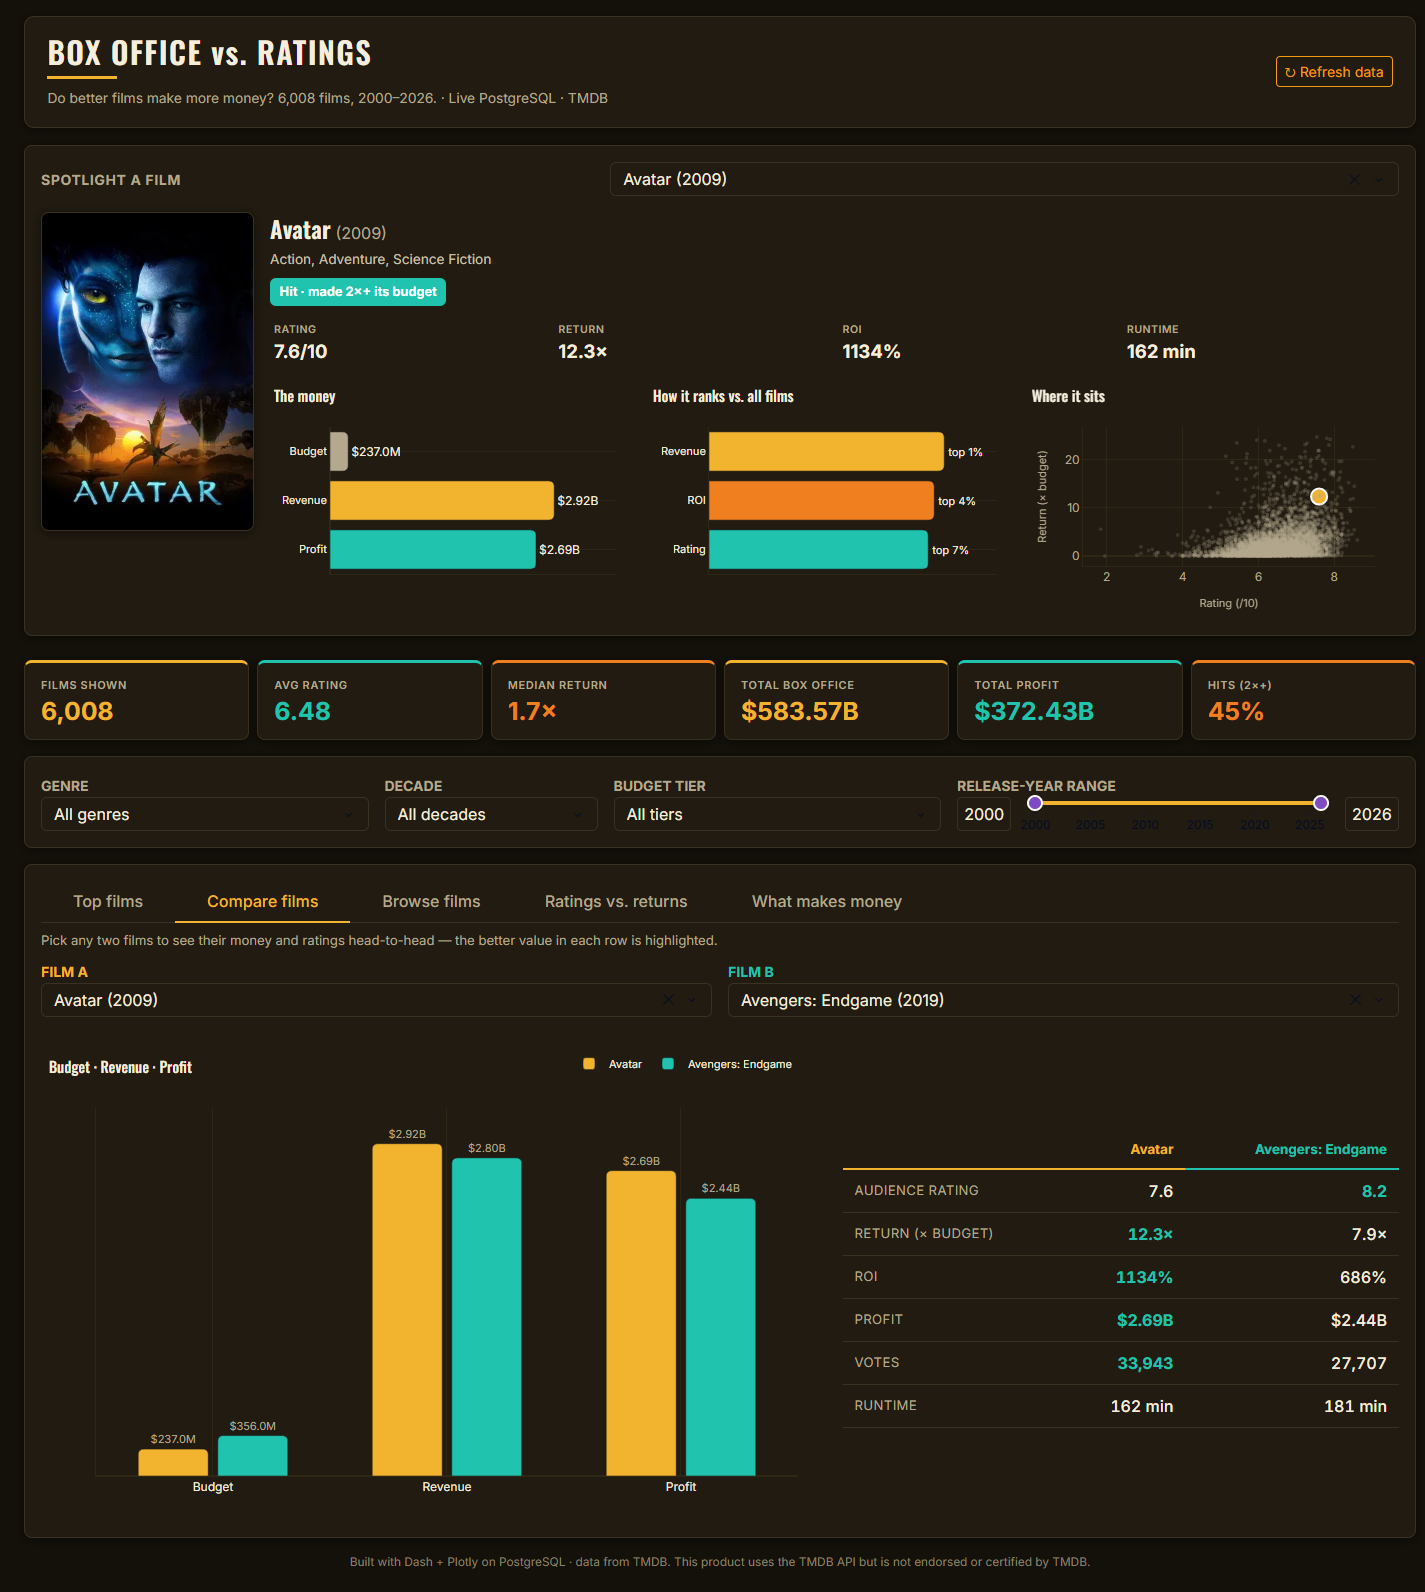
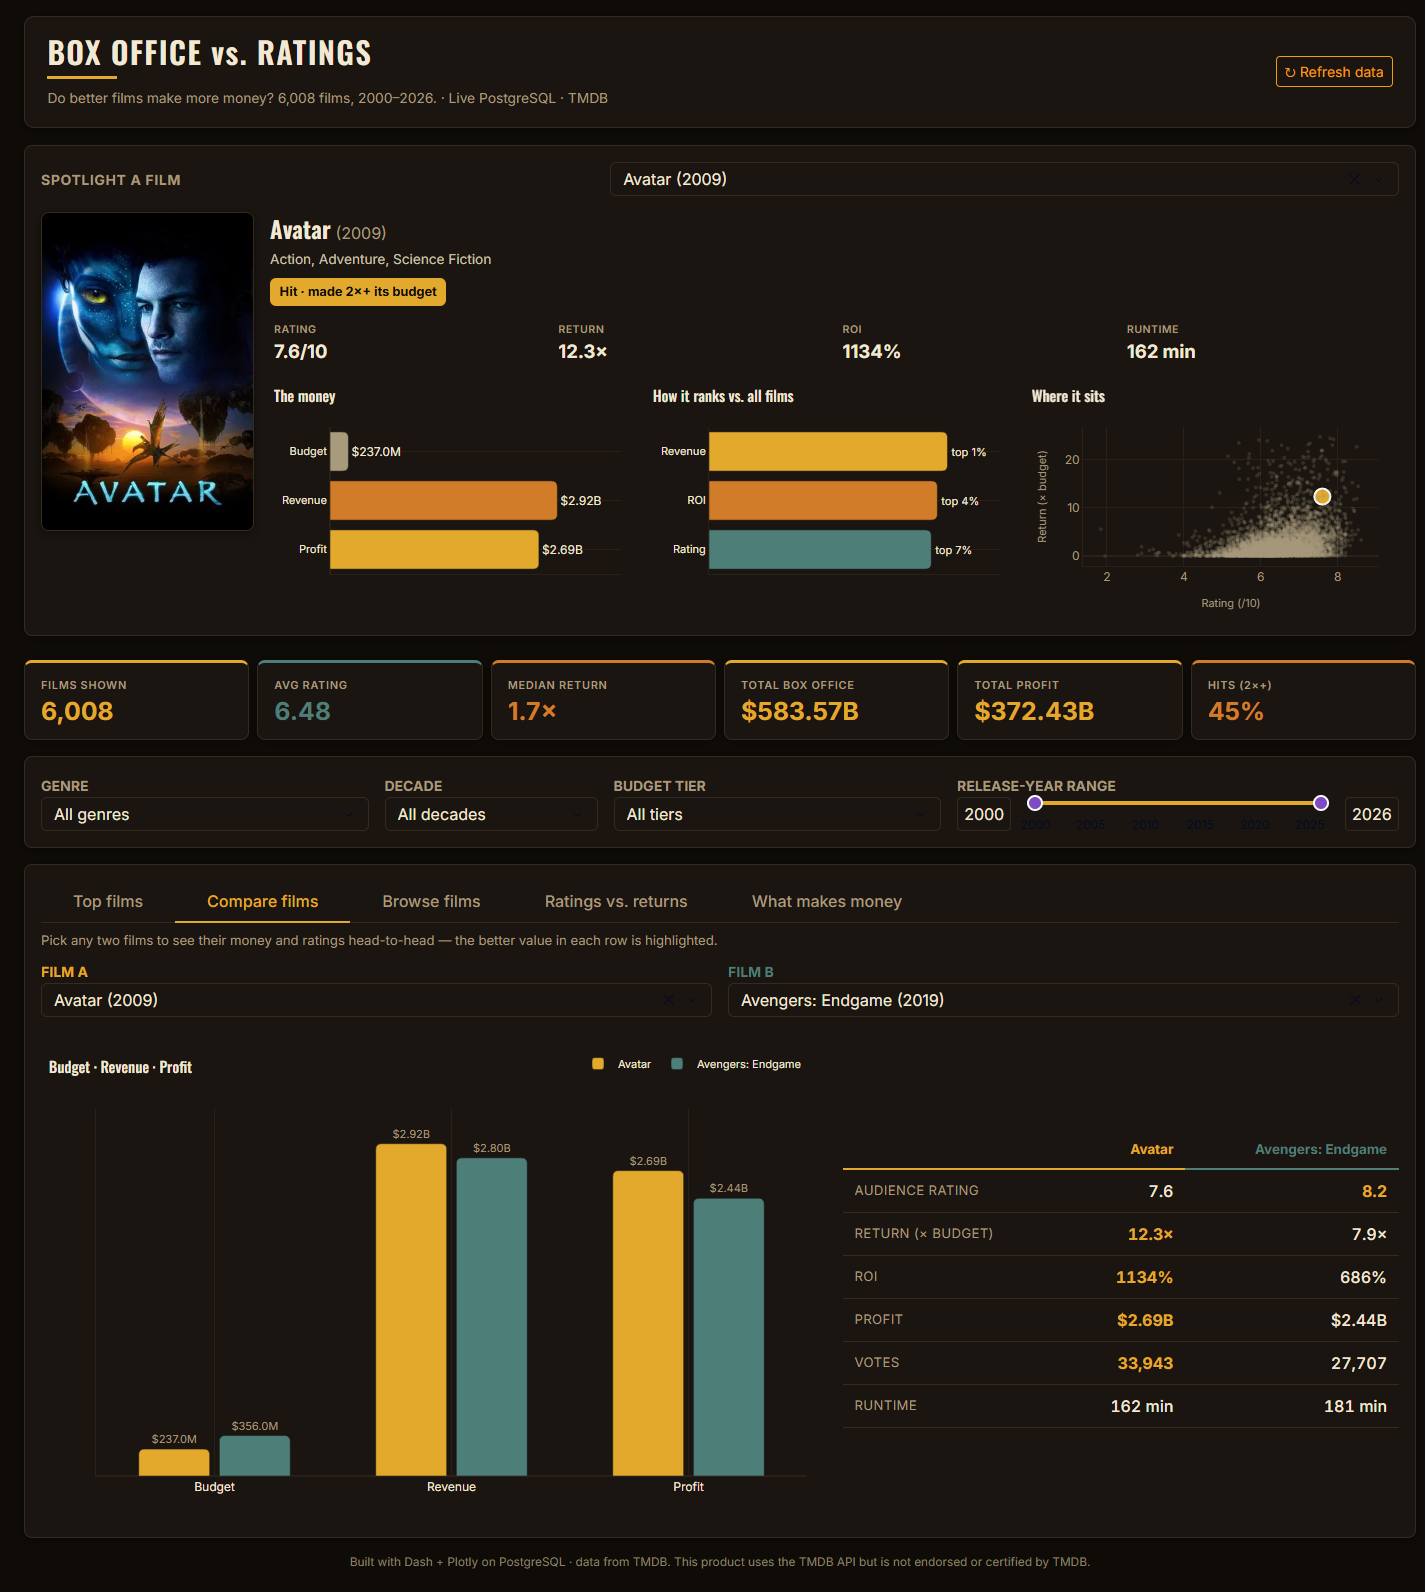
Rich "theater" palette (gold + crimson on near-black), demote teal; punchier titles
Spencer: the colours still don't fit the theme. Root cause: I'd made them bright
(neon-ish), but cinema isn't bright — it's rich and deep. The teal also read as
"tech dashboard," not "movie."

- Rebuilt the palette around a true theater identity: near-black warm canvas,
  rich antique gold, curtain crimson, deep amber, parchment text — saturated but
  deep, not neon. Gold + crimson is the Oscars/marquee look.
- Demoted teal from a primary "good" colour to a single deep, muted petrol accent
  (one chart + compare B). "Good/hit/winner/profit" is now gold; "profitable" amber;
  "flop/loss" crimson — a warm red→amber→gold gradient throughout.
- Synced the index_string CSS to the new palette.
- Scan/viewer-value: renamed leaderboards to be more engaging — "Most profitable",
  "Best bang for the buck", "Biggest flops".
- Regenerated the four README screenshots on the theater palette.

Self-review: clean; verified import + update()/fig_money build + all tabs render.

diff --git a/app.py b/app.py
@@ -38,17 +38,17 @@ load_dotenv()
 
 # ---- "movie theater" palette: warm espresso canvas + the classic teal-and-orange
 # film-grading scheme (cinema gold/amber warm, teal as the complementary cool) ----
-BG = "#14110A"          # warm espresso-charcoal (a dim theater)
-PANEL = "#211B11"       # warm dark — cards / chart panels
-PANEL_HI = "#2D2616"    # table header, hover, raised bits
-BORDER = "#3A3122"      # subtle warm border
-INK = "#F5EEDD"         # warm cream (primary text)
-MUTED = "#B4A98E"       # warm grey text
-GRID = "#2E2718"        # chart gridlines
-GOLD = "#F2B32E"        # vivid marquee gold — primary (box office, hits)
-ORANGE = "#F0801F"      # vivid amber-orange — secondary (returns, ROI)
-TEAL = "#1FC3AE"        # vivid teal — the cool of teal-and-orange grading
-RED = "#EA4A39"         # vivid crimson — losses / flops
+BG = "#0F0C08"          # near-black warm — a dark theater
+PANEL = "#1A1510"       # rich dark — cards / chart panels
+PANEL_HI = "#241D14"    # table header, hover, raised bits
+BORDER = "#352A1D"      # subtle warm border
+INK = "#F2E8D4"         # parchment / cream (primary text)
+MUTED = "#A89A7C"       # warm grey text
+GRID = "#292117"        # chart gridlines
+GOLD = "#E2A92C"        # rich antique gold — primary (box office, hits, winners)
+ORANGE = "#D17C28"      # deep amber — secondary (returns, ROI, profitable)
+RED = "#B8362C"         # curtain crimson — losses / flops
+TEAL = "#4E7E78"        # deep muted petrol — a single restrained cool accent
 ACCENT = GOLD
 PAGE_BG = BG
 SHADOW = "0 2px 10px rgba(0,0,0,0.50)"
@@ -58,7 +58,7 @@ PALETTE = [GOLD, TEAL, ORANGE, RED, "#C9A36A", "#7FA59E"]
 
 TIER_ORDER = ["Low (<$10M)", "Mid ($10-50M)", "High ($50-150M)", "Blockbuster (>=$150M)"]
 PERF_ORDER = ["Flop (<1x)", "Profitable (1-2x)", "Hit (>=2x)"]
-PERF_COLORS = {"Flop (<1x)": RED, "Profitable (1-2x)": GOLD, "Hit (>=2x)": TEAL}
+PERF_COLORS = {"Flop (<1x)": RED, "Profitable (1-2x)": ORANGE, "Hit (>=2x)": GOLD}
 # Plain-English badge text — the raw "Hit (>=2x)" labels are jargon to a demo audience.
 PERF_BADGE = {"Flop (<1x)": "Flop · lost money",
               "Profitable (1-2x)": "Profitable · made 1–2× its budget",
@@ -241,7 +241,7 @@ def fig_rating_band(df):
     b = (d.groupby("band", observed=True)
            .agg(roi=("roi_pct", "median"), n=("film_id", "count")).reset_index())
     fig = px.bar(b, x="band", y="roi", text="roi",
-                 color="roi", color_continuous_scale=[RED, GOLD, TEAL],
+                 color="roi", color_continuous_scale=[RED, ORANGE, GOLD],
                  labels={"band": "Audience rating", "roi": "Median ROI %"})
     fig.update_traces(texttemplate="%{text:.0f}%", textposition="outside")
     fig.update_layout(coloraxis_showscale=False)
@@ -252,7 +252,7 @@ def fig_rating_band(df):
 def fig_genre_bar(g):
     gg = g.sort_values("median_roi_pct")
     fig = px.bar(gg, x="median_roi_pct", y="genre", orientation="h", color="median_roi_pct",
-                 color_continuous_scale=[RED, GOLD, TEAL],
+                 color_continuous_scale=[RED, ORANGE, GOLD],
                  labels={"median_roi_pct": "Median ROI %", "genre": ""})
     fig.update_layout(coloraxis_showscale=False)
     return style(fig, "Median return by genre", height=470)
@@ -358,7 +358,7 @@ def fig_compare(a, b):
 def _cmp_cell(text, win):
     return html.Td(text, style={
         "padding": "9px 12px", "textAlign": "right", "fontVariantNumeric": "tabular-nums",
-        "fontWeight": 700 if win else 500, "color": TEAL if win else INK,
+        "fontWeight": 700 if win else 500, "color": GOLD if win else INK,
         "borderBottom": f"1px solid {BORDER}"})
 
 
@@ -412,7 +412,7 @@ def _pct(series, value):
 def fig_money(row):
     labels = ["Budget", "Revenue", "Profit"]
     vals = [row["budget"], row["revenue"], row["profit"]]
-    colors = [MUTED, GOLD, TEAL if row["profit"] >= 0 else RED]
+    colors = [MUTED, ORANGE, GOLD if row["profit"] >= 0 else RED]
     fig = go.Figure(go.Bar(
         x=vals, y=labels, orientation="h", marker_color=colors,
         text=[money(v) for v in vals], textposition="outside",
@@ -473,7 +473,7 @@ def poster_block(row):
 
 def film_meta(row):
     perf_color = PERF_COLORS.get(row["performance"], MUTED)
-    badge_text = "#14110A" if perf_color == GOLD else "white"
+    badge_text = "#0F0C08" if perf_color == GOLD else "white"
     rt = f"{int(row['runtime'])} min" if pd.notna(row["runtime"]) else "—"
     return html.Div([
         html.Span(row["title"], style={"fontFamily": HEAD_FONT, "fontWeight": 600,
@@ -558,34 +558,34 @@ app.index_string = """<!DOCTYPE html>
 <link rel="preconnect" href="https://fonts.gstatic.com" crossorigin>
 <link href="https://fonts.googleapis.com/css2?family=Oswald:wght@500;600;700&family=Inter:wght@400;500;600;700&display=swap" rel="stylesheet">
 <style>
-  html, body { background:#14110A; color:#F5EEDD; }
-  ::selection { background:#F2B32E; color:#14110A; }
+  html, body { background:#0F0C08; color:#F2E8D4; }
+  ::selection { background:#E2A92C; color:#0F0C08; }
   /* Dropdown (Dash 3 native) */
-  .dash-dropdown, .dash-dropdown-trigger { background:#211B11 !important; border-color:#3A3122 !important;
-      color:#F5EEDD !important; border-radius:6px; }
-  .dash-dropdown-value, .dash-dropdown-value-item span, .dash-dropdown-placeholder { color:#F5EEDD !important; }
+  .dash-dropdown, .dash-dropdown-trigger { background:#1A1510 !important; border-color:#352A1D !important;
+      color:#F2E8D4 !important; border-radius:6px; }
+  .dash-dropdown-value, .dash-dropdown-value-item span, .dash-dropdown-placeholder { color:#F2E8D4 !important; }
   /* open menu popup */
-  .dash-dropdown-content { background:#211B11 !important; color:#F5EEDD !important;
-      border:1px solid #3A3122 !important; }
-  .dash-dropdown-search { background:#14110A !important; color:#F5EEDD !important;
-      border:1px solid #3A3122 !important; }
-  .dash-options-list, .dash-dropdown-options { background:#211B11 !important; color:#F5EEDD !important; }
-  .dash-options-list-option, .dash-dropdown-option { color:#F5EEDD !important; background:transparent !important; }
-  .dash-options-list-option:hover, .dash-dropdown-option:hover { background:#2D2616 !important;
-      color:#F2B32E !important; }
-  .dash-dropdown-action-button { color:#F2B32E !important; background:transparent !important; }
+  .dash-dropdown-content { background:#1A1510 !important; color:#F2E8D4 !important;
+      border:1px solid #352A1D !important; }
+  .dash-dropdown-search { background:#0F0C08 !important; color:#F2E8D4 !important;
+      border:1px solid #352A1D !important; }
+  .dash-options-list, .dash-dropdown-options { background:#1A1510 !important; color:#F2E8D4 !important; }
+  .dash-options-list-option, .dash-dropdown-option { color:#F2E8D4 !important; background:transparent !important; }
+  .dash-options-list-option:hover, .dash-dropdown-option:hover { background:#241D14 !important;
+      color:#E2A92C !important; }
+  .dash-dropdown-action-button { color:#E2A92C !important; background:transparent !important; }
   /* Range slider (Dash 3 native) */
-  .dash-slider-track { background:#3A3122 !important; }
-  .dash-slider-range { background:#F2B32E !important; }
-  .dash-slider-handle { background:#F2B32E !important; border-color:#F2B32E !important; }
-  .dash-slider-mark-text { color:#B4A98E !important; }
-  .dash-range-slider-input { background:#211B11 !important; color:#F5EEDD !important; border-color:#3A3122 !important; }
+  .dash-slider-track { background:#352A1D !important; }
+  .dash-slider-range { background:#E2A92C !important; }
+  .dash-slider-handle { background:#E2A92C !important; border-color:#E2A92C !important; }
+  .dash-slider-mark-text { color:#A89A7C !important; }
+  .dash-range-slider-input { background:#1A1510 !important; color:#F2E8D4 !important; border-color:#352A1D !important; }
   /* Tabs */
-  .nav-tabs { border-bottom:1px solid #3A3122 !important; }
-  .nav-tabs .nav-link { color:#B4A98E !important; border:none !important; font-weight:500; }
-  .nav-tabs .nav-link:hover { color:#F5EEDD !important; }
-  .nav-tabs .nav-link.active { color:#F2B32E !important; background:transparent !important;
-      border-bottom:2px solid #F2B32E !important; }
+  .nav-tabs { border-bottom:1px solid #352A1D !important; }
+  .nav-tabs .nav-link { color:#A89A7C !important; border:none !important; font-weight:500; }
+  .nav-tabs .nav-link:hover { color:#F2E8D4 !important; }
+  .nav-tabs .nav-link.active { color:#E2A92C !important; background:transparent !important;
+      border-bottom:2px solid #E2A92C !important; }
 </style>
 </head>
 <body>{%app_entry%}<footer>{%config%}{%scripts%}{%renderer%}</footer></body>
@@ -647,7 +647,7 @@ app.layout = dbc.Container(fluid=True, className="px-4 py-3",
         dbc.Col(kpi("Total box office", "kpi-box", GOLD,
                     tip="Combined worldwide revenue of all films in the current selection."),
                 md=2, xs=6),
-        dbc.Col(kpi("Total profit", "kpi-profit", TEAL,
+        dbc.Col(kpi("Total profit", "kpi-profit", GOLD,
                     tip="Combined revenue minus combined budget."), md=2, xs=6),
         dbc.Col(kpi("Hits (2×+)", "kpi-hits", ORANGE,
                     tip="Share of films that earned at least 2× their budget back."), md=2, xs=6),
@@ -781,10 +781,10 @@ def update(genres, decades, tiers, year_range):
         fig_scatter(df), fig_rating_band(df), fig_genre_bar(g),
         fig_tier_bars(df), fig_perf_donut(df),
         fig_leaderboard(df, "revenue", "Biggest box office", color=GOLD),
-        fig_leaderboard(df, "profit", "Biggest profit", color=TEAL),
-        fig_leaderboard(df, "revenue_multiple", "Best return on budget (budget ≥ $10M)",
-                        money_fmt=False, suffix="×", color=ORANGE, min_budget=10_000_000),
-        fig_leaderboard(df, "profit", "Biggest losses", largest=False, color=RED),
+        fig_leaderboard(df, "profit", "Most profitable", color=ORANGE),
+        fig_leaderboard(df, "revenue_multiple", "Best bang for the buck  (budget ≥ $10M)",
+                        money_fmt=False, suffix="×", color=TEAL, min_budget=10_000_000),
+        fig_leaderboard(df, "profit", "Biggest flops", largest=False, color=RED),
         table,
     )
 
